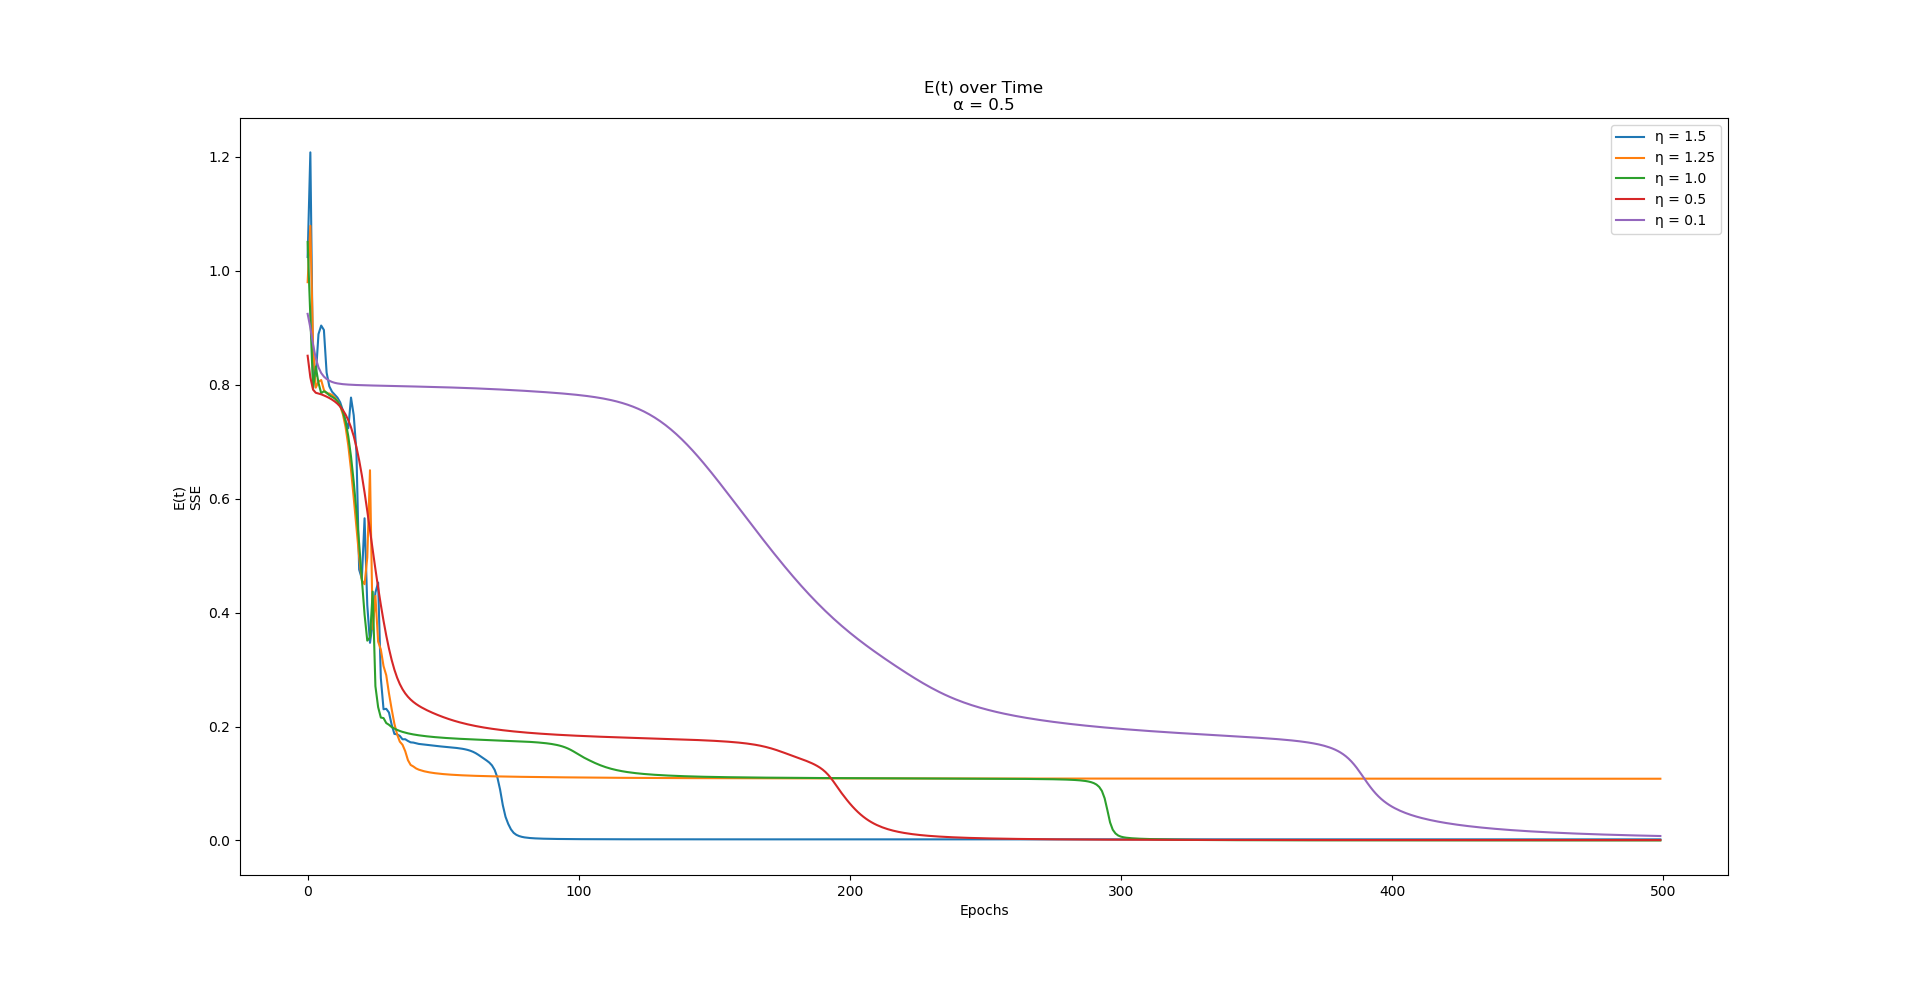
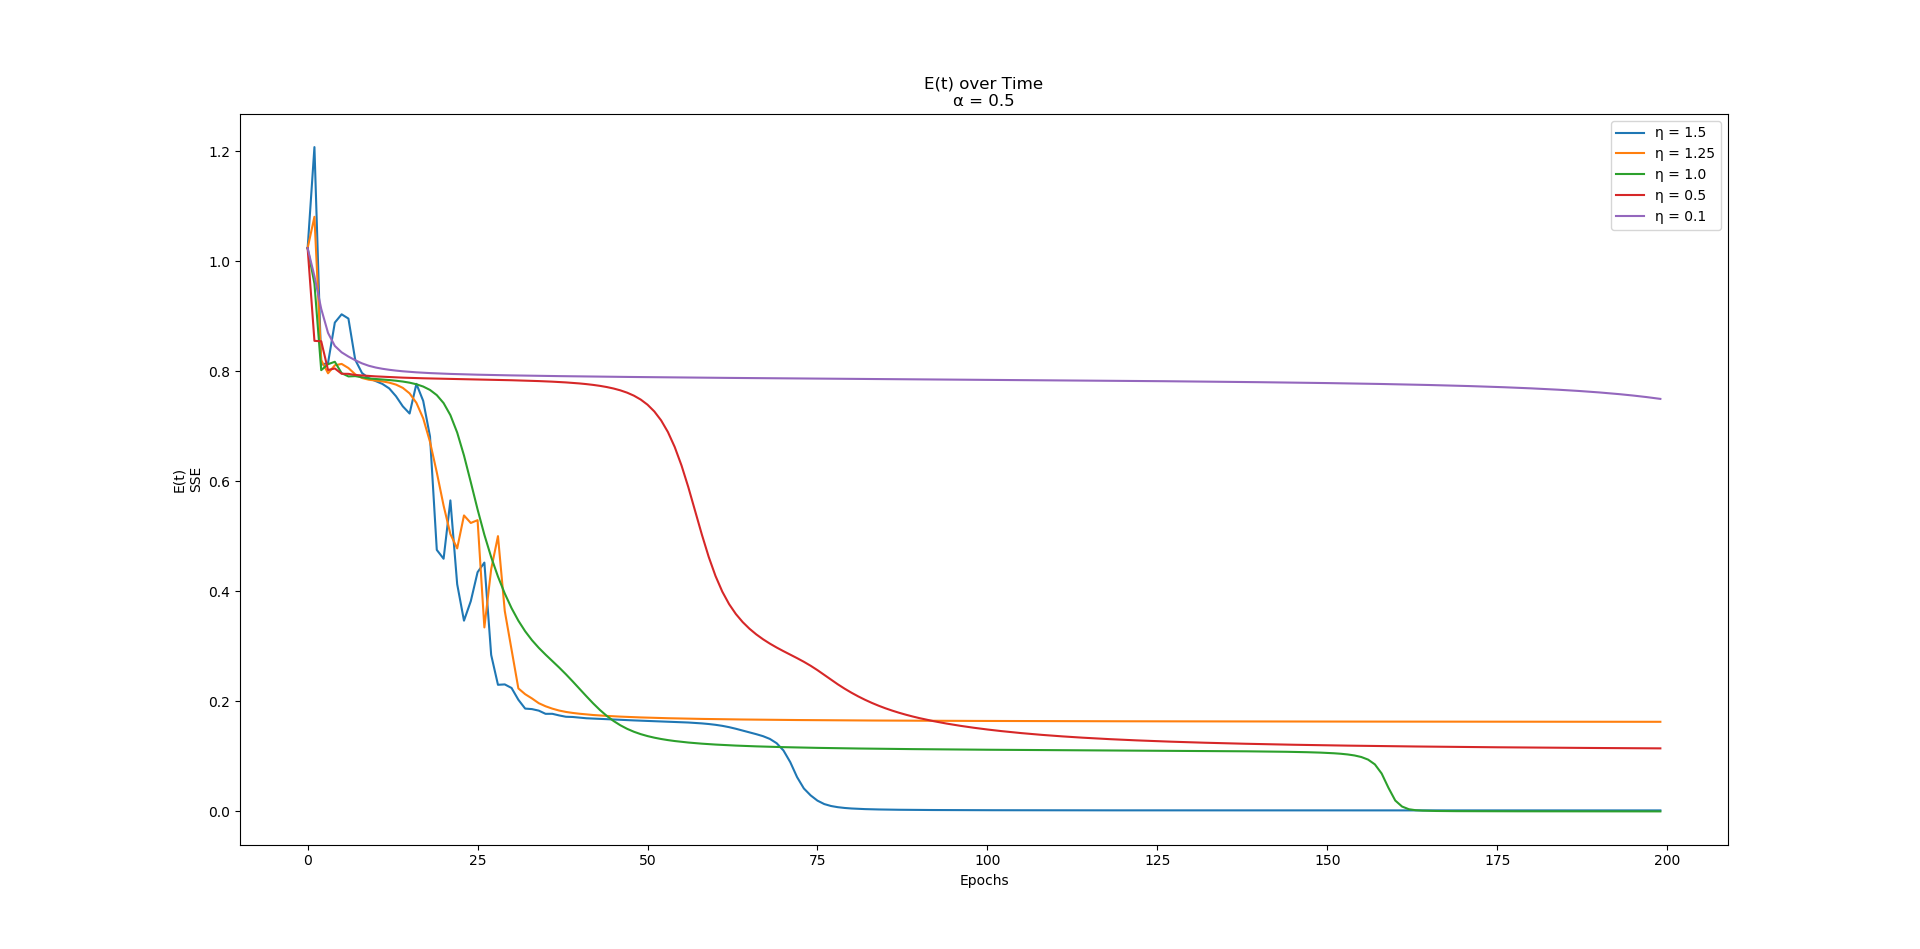
Adjusted error curve range.

diff --git a/6. Learning Rate and Momentum/6.1 Learning Rate/errorcurves.py b/6. Learning Rate and Momentum/6.1 Learning Rate/errorcurves.py
@@ -94,7 +94,7 @@ def createErrorGraph(learningRates, randomSeed):
 
     for learningRate in learningRates:
         network = createNetwork(learningRate, randomSeed)
-        history = trainNetwork(network, 500)
+        history = trainNetwork(network, 200)
         errorHistory = history.history['SSE']
         plotError(ax, errorHistory, 'η = ' + str(learningRate))
     
